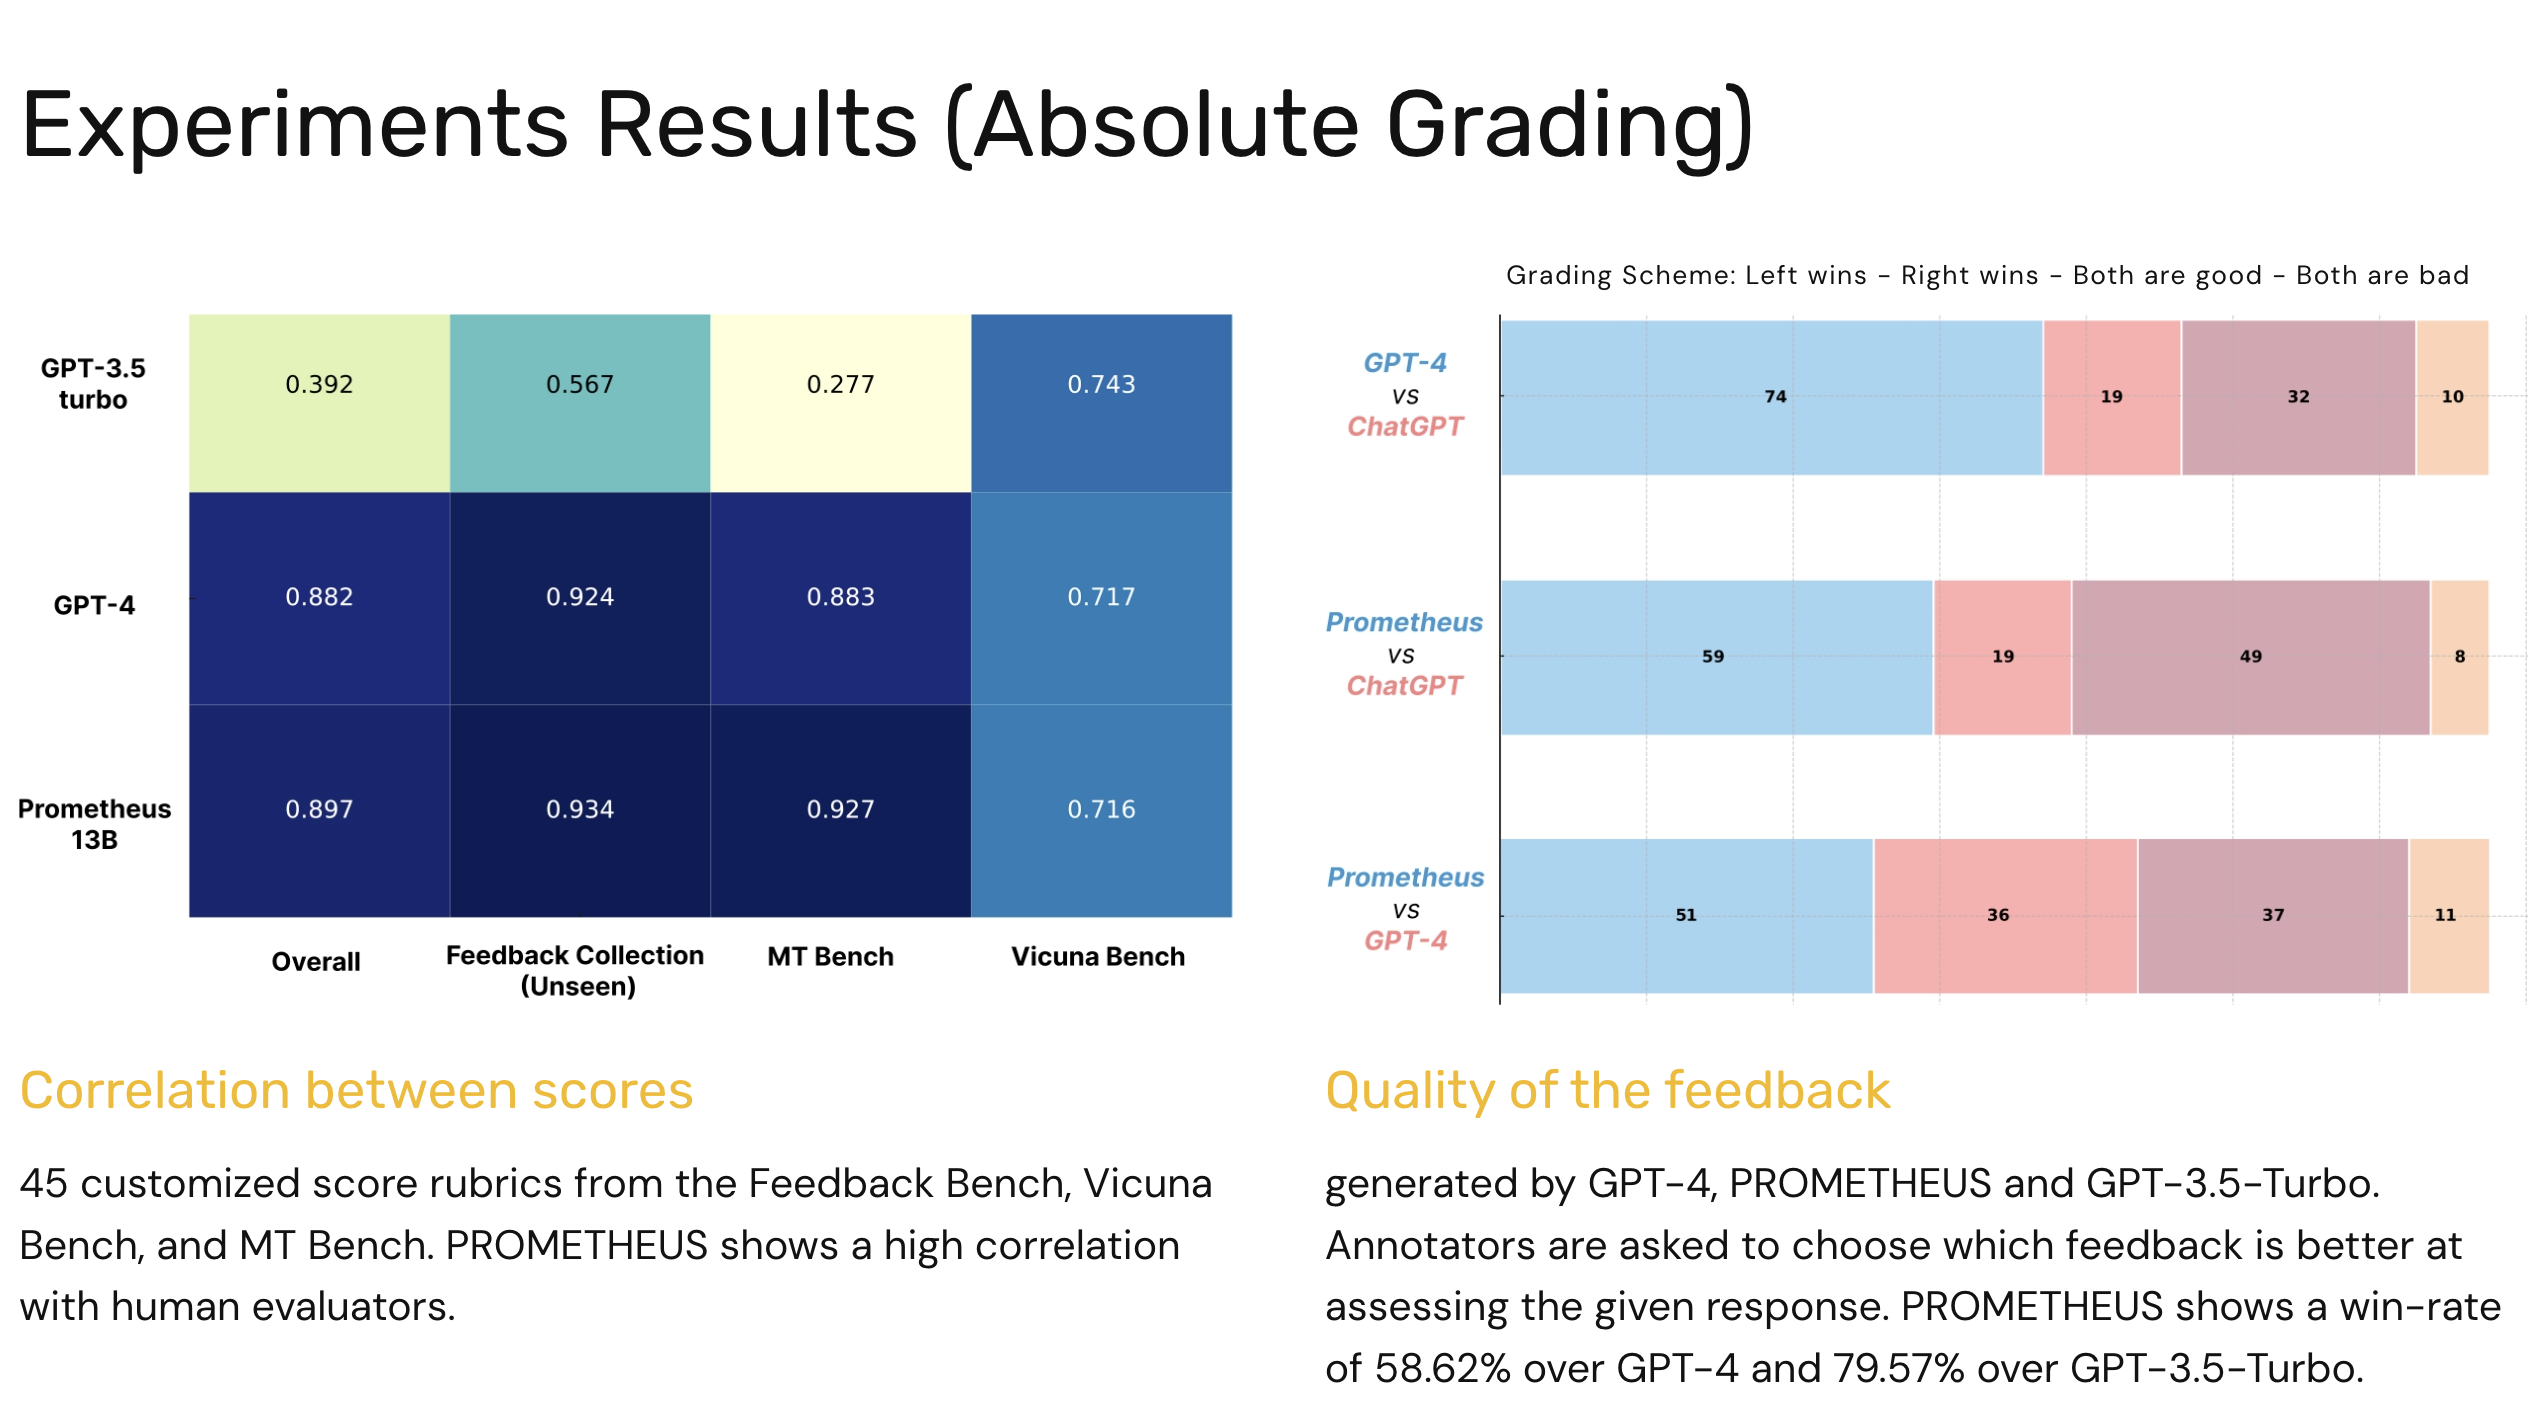
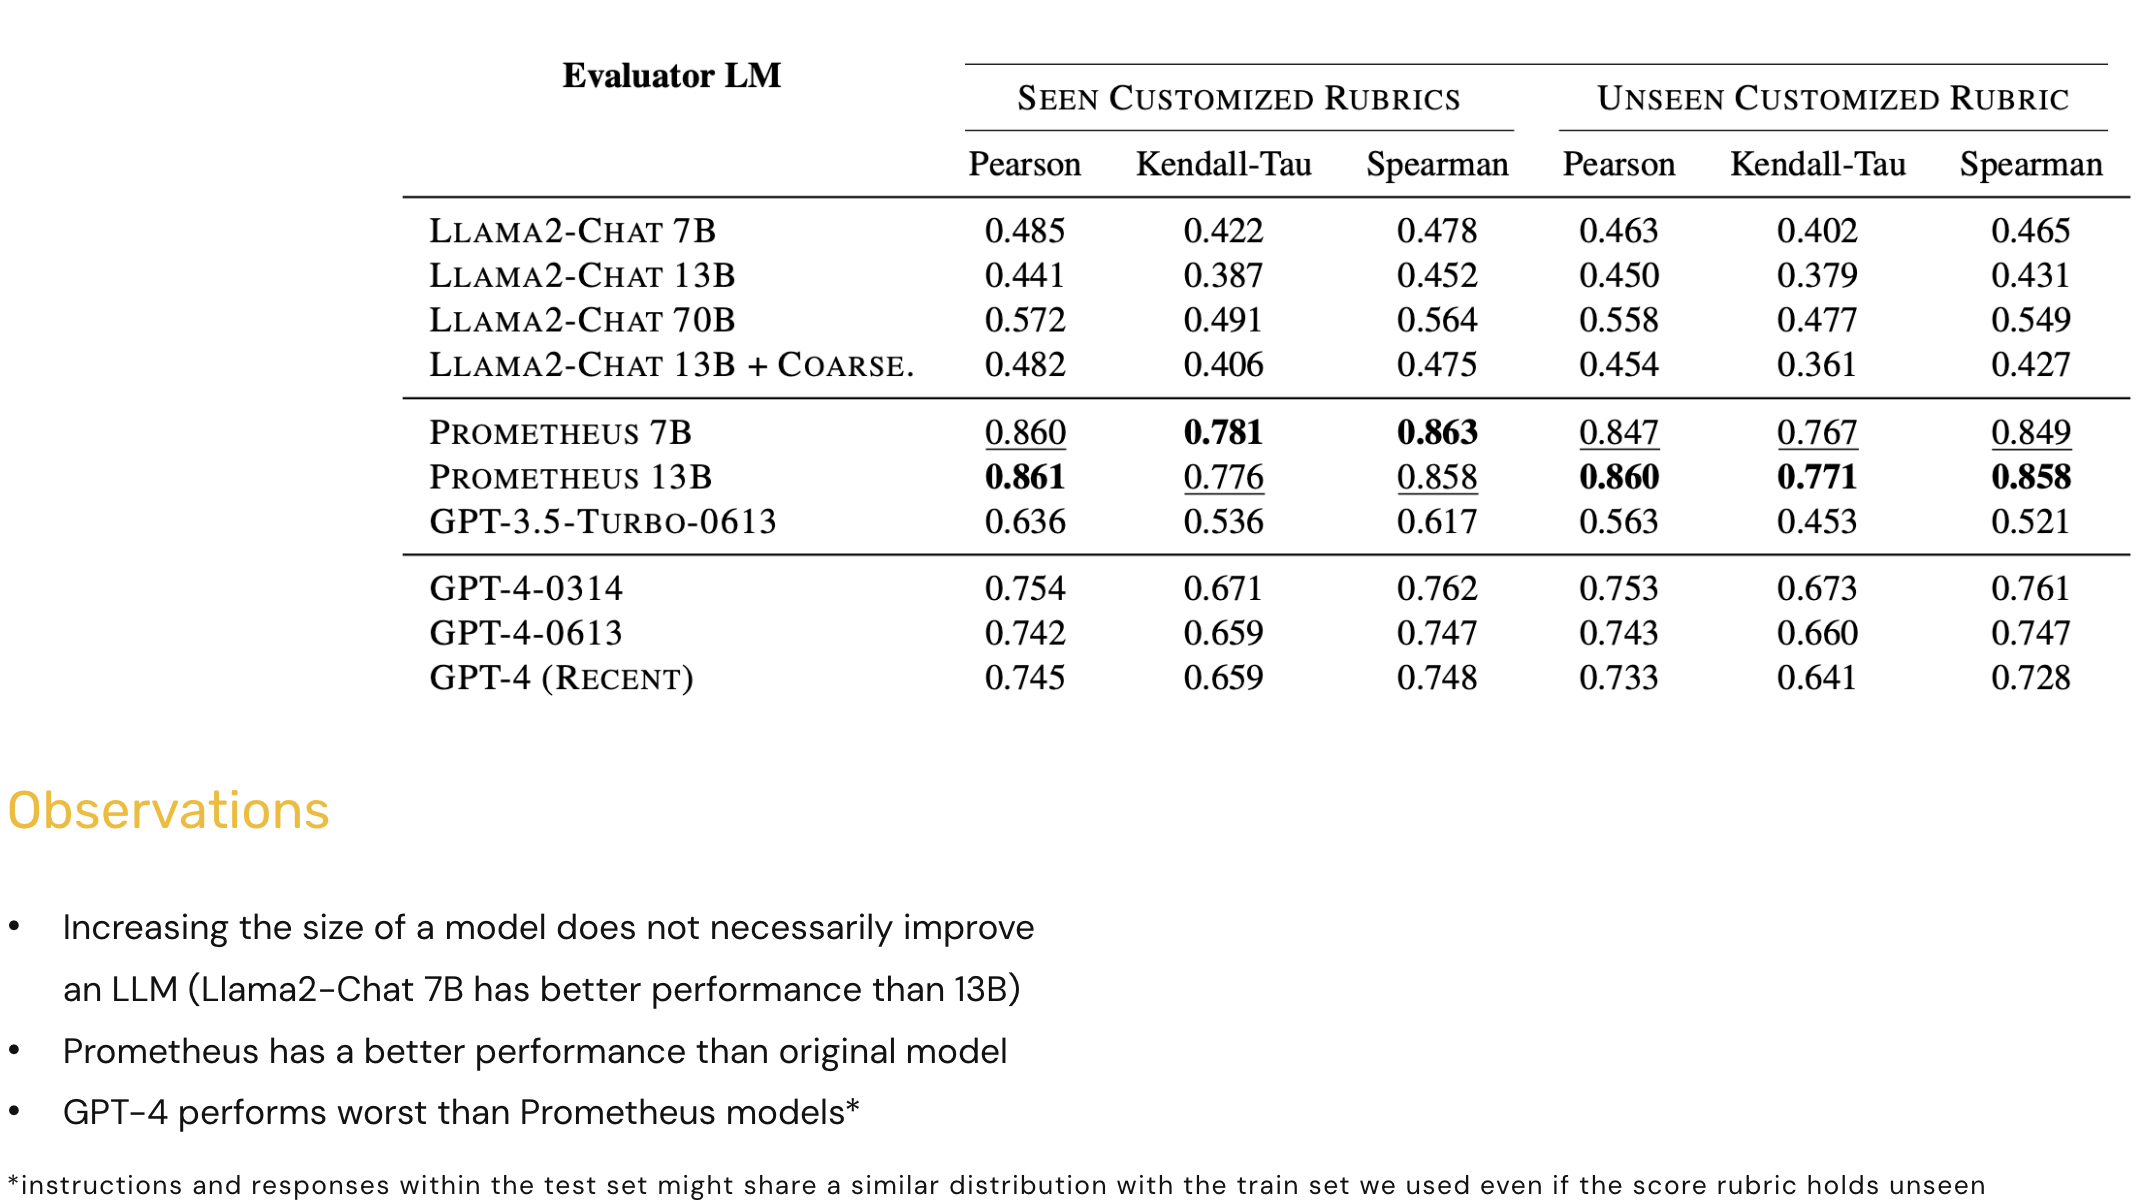
change formating

diff --git a/_posts/2024-04-05-llm_as_judge.md b/_posts/2024-04-05-llm_as_judge.md
@@ -5,42 +5,38 @@ use_toc: true
 excerpt: Paper analysis "Prometheus - Inducing Fine-grained Evaluation Capability in Language Models"
 ---
 
-<div style="display: flex; justify-content: center; padding-top: 20px; padding-bottom: 20px;">
-    <img src="{{ site.baseurl }}/images/Judge_LLM/Untitled.png" style="width: 70%;"/>
-</div>
-
 ## The Why?
+<div style="display: flex; justify-content: center; padding-top: 20px; padding-bottom: 20px;">
+    <img src="{{ site.baseurl }}/images/Judge_LLM/Untitled.png" style="width: 100%;"/>
+</div>
 
 Evaluating RAG-based chatbot performance can be challenging, particularly when diverse customer datasets are at play. The central question is: How do we measure the quality of a conversation when the parameters of 'good' are so variable? In the [previous article](https://denyslazarenko.github.io/2024/01/14/rag_pipeline.html), I proposed a simple method which was based on generating synthetic questions from customer data, and then we were able to measure quality using RAGAs. This involved a two-fold process where GPT-4 not only generated responses but also served as a judge to evaluate their quality based on the context provided. While this method is quick to implement and sets a good baseline, it has many limitations.
 
 ## Limitations
 
 <div style="display: flex; justify-content: center; padding-top: 20px; padding-bottom: 20px;">
-    <img src="{{ site.baseurl }}/images/Judge_LLM/Untitled_1.png" style="width: 70%;"/>
+    <img src="{{ site.baseurl }}/images/Judge_LLM/Untitled_1.png" style="width: 100%;"/>
 </div>
 
-
-### Reliable Metric
-
-- **Unreliability of RAGAS:** Our chosen metric, RAGAS, proved to be inconsistent, leading to doubts about its effectiveness in providing a true measure of quality. RAGAS gives only a score in the range from 0 to 1, which is difficult to interpret and has built-in bias from LLM itself.
-
-### Speed
-
-- **Lag in Execution:** The evaluation process was time-intensive. Multiple interactions with GPT-4 for each question and its subsequent judgment took 30-45s on average, making it slow to test new ideas frequently.
-
-### Price
-
+- **Unreliability of existing metrics:** Our chosen metric, RAGAS, proved to be inconsistent, leading to doubts about its effectiveness in providing a true measure of quality. RAGAS gives only a score in the range from 0 to 1, which is difficult to interpret and has built-in bias from LLM itself.
+- **Speed:** The evaluation process was time-intensive. Multiple interactions with GPT-4 for each question and its subsequent judgment took 30-45s on average, making it slow to test new ideas frequently.
 - **Cost Considerations:** Frequent use of GPT-4's evaluative capacity came with substantial costs, particularly when the evaluations were for internal purposes rather than customer-driven.
 
 To mitigate these issues, we have adopted parallel execution and threading to expedite the process. However, to manage costs, we have limited the frequency of evaluations to periods of significant change.
 
 ## Is there a better approach?
 
+There are many papers that tries to work on the limitations discussed above. Some of them are:
+- [Prometheus: Inducing Fine-grained Evaluation Capability in Language Models](https://arxiv.org/abs/2310.08491)
+- [JudgeLM: Fine-tuned Large Language Models are Scalable Judges](https://arxiv.org/abs/2310.17631)
+- [G-EVAL: NLG Evaluation using GPT-4 with Better Human Alignment](https://arxiv.org/abs/2303.16634)
+- [Can Generalist Foundation Models Outcompete Special-Purpose Tuning? Case Study in Medicine](https://arxiv.org/abs/2311.16452) 
+
+I got inspired by the work "[Prometheus: Inducing Fine-grained Evaluation Capability in Language Models](https://arxiv.org/abs/2310.08491)". The cornerstone of this paper is its innovative approach to generating evaluation datasets based on rubric metric and finetuning local LLM on it. This enables the construction of a specialized Judge Language Model (LLM) that operates on open-source principles and is fine-tuned for nuanced assessment.
+
 <div style="display: flex; justify-content: center; padding-top: 20px; padding-bottom: 20px;">
     <img src="{{ site.baseurl }}/images/Judge_LLM/Untitled_2.png" style="width: 70%;"/>
 </div>
-
-Inspired by the work in "[Prometheus: Inducing Fine-grained Evaluation Capability in Language Models](https://arxiv.org/abs/2310.08491)".   The cornerstone of this paper is its innovative approach to generating evaluation datasets based on rubric metric and finetuning local LLM on it. This enables the construction of a specialized Judge Language Model (LLM) that operates on open-source principles and is fine-tuned for nuanced assessment.
 
 - **GPT-4's Breadth vs. Specialization:** While GPT-4's training encompasses a vast breadth of knowledge, our evaluation needs are often more focused. We're interested in aspects like text length, tone of voice, and politeness of responses.
 - **Introducing the Rubric Score:** The authors introduce a 'rubric score' to capture these fine-grained criteria. For instance, the rubric asks, "Does the model use language and tone that is respectful and considerate, demonstrating emotional intelligence?" Responses are then rated on a scale, with a score of 1 for disrespectful and emotionally unintelligent replies, and a score of 5 for consistent respectfulness and high emotional intelligence.
@@ -104,10 +100,6 @@ Creating an evaluation dataset from scratch can be a daunting task. However, the
 
 - The final step involved generating responses and feedback for each instruction and reference answer. This was done sequentially, with GPT-4 providing both the response and the feedback based on the previously generated rubrics and reference answers. The result was an extensive dataset of **100,000 instances** (5 for each instruction, with 20K for each score within 1-5).
 
-### Code
-
-The original code can be found at [https://github.com/kaistAI/prometheus](https://github.com/kaistAI/prometheus). However, I prefer the implementations using Langchain, which can be found [here](https://huggingface.co/learn/cookbook/rag_evaluation) and [here](https://huggingface.co/learn/cookbook/llm_judge).
-
 ## Fine-tuning an evaluator LM
 
 The original code could be found [here](https://github.com/kaistAI/prometheus). The following prompt format (already processed in the 'output') was used to train the evaluator LM:
@@ -129,25 +121,6 @@ Then during evaluation, we parsed the prediction after the phrase **[RESULT]**.
 - Training batch size which was set according to the model size: for 7B models we used 28 and for 13B models we used 20
 - Number of epochs is set to 3
 
-### Code
-
-I experimented with two platforms for fine-tuning. They were both user-friendly and reasonably priced: [OpenPipe](https://openpipe.ai/) and [TogetherAI](https://together.ai/). 
-
-```python
-def upload_and_fine_tune(file_name):
-  file_id = together.Files.upload(file=file_name)["id"]
-
-  fine_tune_response = together.Finetune.create(
-      training_file=file_id,
-      model='togethercomputer/llama-2-7b-chat',
-      n_epochs=1,
-      n_checkpoints=1,
-      batch_size=64,
-      learning_rate=1e-5,
-      suffix=suffix,
-  )
-```
-
 ### Evaluation Datasets
 
 <div style="display: flex; justify-content: center; padding-top: 20px; padding-bottom: 20px;">
@@ -168,10 +141,30 @@ def upload_and_fine_tune(file_name):
     <img src="{{ site.baseurl }}/images/Judge_LLM/Untitled_11.png" style="width: 70%;"/>
 </div>
 
+## Code
+
+In order to reproduce paper results, we can follow the original code [https://github.com/kaistAI/prometheus](https://github.com/kaistAI/prometheus). However, I prefer the implementations using Langchain, which can be found [here](https://huggingface.co/learn/cookbook/rag_evaluation) and [here](https://huggingface.co/learn/cookbook/llm_judge).
+
+To perform finetuning, authors do it on their own clusters. I experimented with two platforms for fine-tuning. They were both user-friendly and reasonably priced: [OpenPipe](https://openpipe.ai/) and [TogetherAI](https://together.ai/). 
+
+```python
+def upload_and_fine_tune(file_name):
+  file_id = together.Files.upload(file=file_name)["id"]
+
+  fine_tune_response = together.Finetune.create(
+      training_file=file_id,
+      model='togethercomputer/llama-2-7b-chat',
+      n_epochs=1,
+      n_checkpoints=1,
+      batch_size=64,
+      learning_rate=1e-5,
+      suffix=suffix,
+  )
+```
+
 ## Presentation
 
-You can find more details here: 
-<iframe src="https://pitch.com/embed/v/ai-paper-analysis-j735yf" width="800" height="600" allowfullscreen="true"></iframe>
+<iframe src="https://pitch.com/embed-link/j735yf" allow="fullscreen" allowfullscreen="" width="560" height="368" style="border:0"></iframe>
 
 ## References
 
